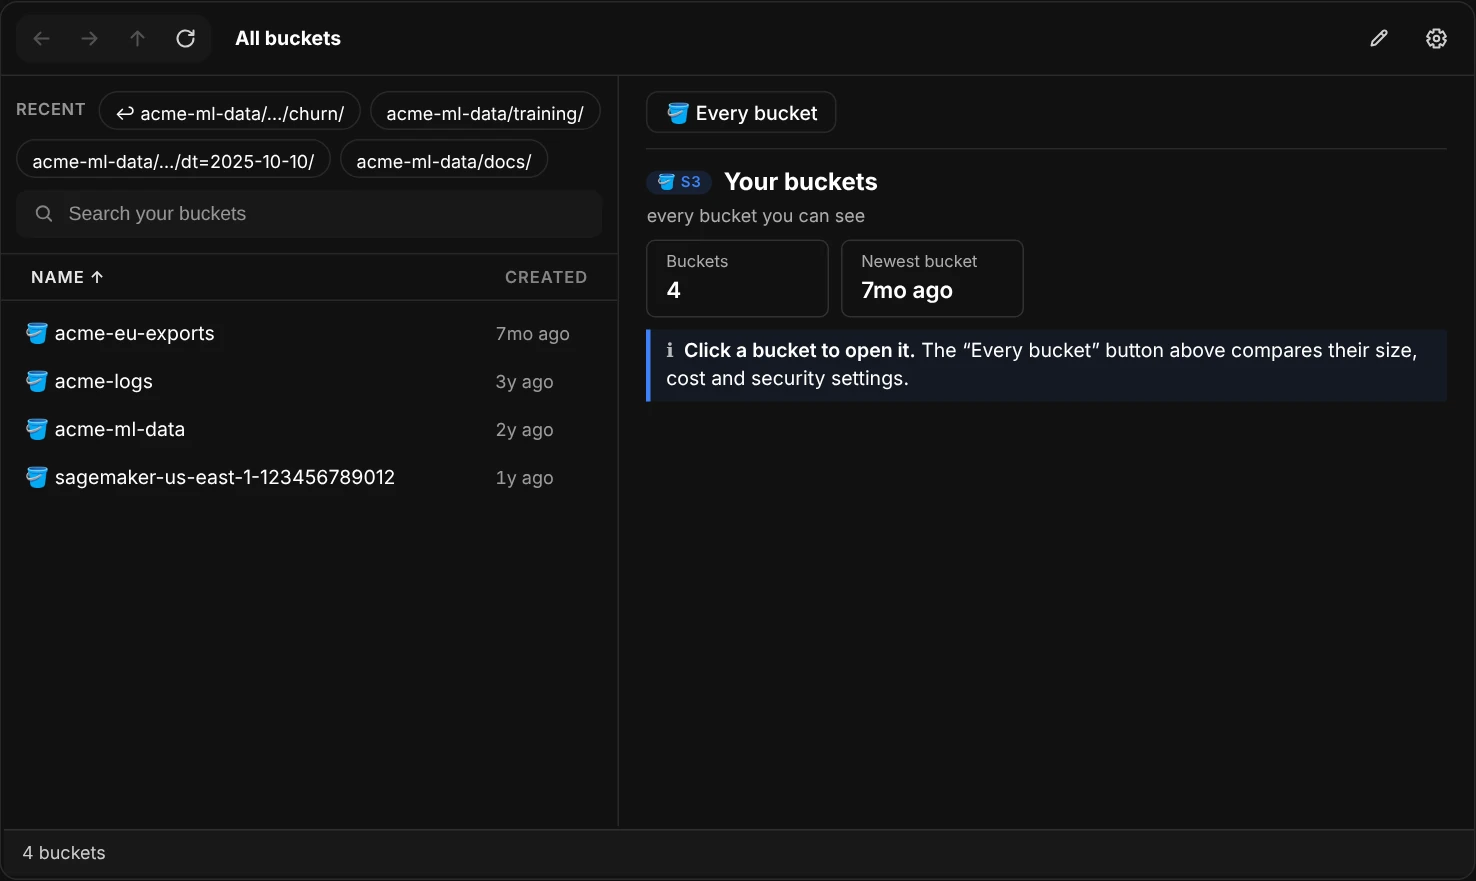
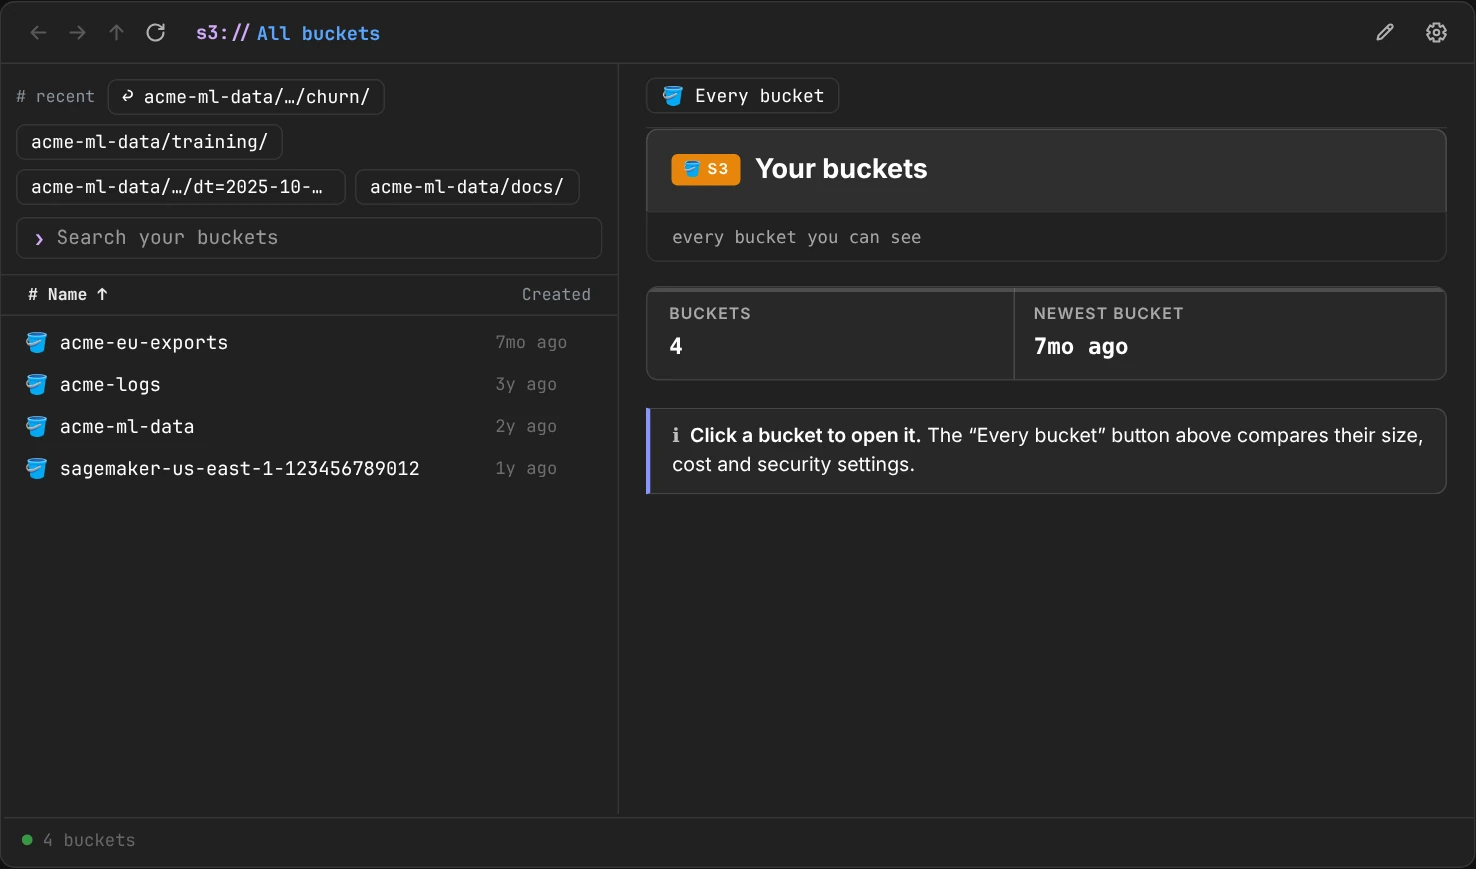
S3 explorer: the Recent row in the terminal look
Claude-Session: https://claude.ai/code/session_011KqyjUmf53E5SGuvtJR8J6

diff --git a/src/aws_analyzer/s3/explorer/frame.py b/src/aws_analyzer/s3/explorer/frame.py
@@ -165,8 +165,7 @@ body[class*=vscode-] .s3x .s3x-body{height:560px}
 .s3x button.s3x-more{border-style:dashed;opacity:.75}
 .s3x .s3x-recent{flex-wrap:wrap;gap:6px;align-items:center}
 .s3x .s3x-recent>*{margin:0}
-.s3x .s3x-recent-l{font-size:11px;font-weight:600;letter-spacing:.04em;text-transform:uppercase;opacity:.55;
- margin-right:2px}
+.s3x .s3x-recent-l{font-size:11px;color:var(--s3t-comment);margin-right:2px}
 .s3x button.s3x-place{max-width:220px;overflow:hidden;text-overflow:ellipsis;white-space:nowrap}
 .s3x button.s3x-deep{display:inline-flex;align-items:center;gap:6px;margin-left:auto}
 .s3x button.s3x-deep::before{width:13px;height:13px}

diff --git a/src/aws_analyzer/s3/explorer/recent.py b/src/aws_analyzer/s3/explorer/recent.py
@@ -65,7 +65,7 @@ class _RecentPane:
 
     def _build_recent(self) -> Any:
         w = self._widgets
-        label = w.HTML('<span class="s3x-recent-l">Recent</span>', layout=w.Layout(width="auto"))
+        label = w.HTML('<span class="s3x-recent-l"># recent</span>', layout=w.Layout(width="auto"))
         self._recent_chips, self._recent_keys = [], []
         self._recent_box = w.HBox([label], layout=w.Layout(width="100%", display="none"))
         self._recent_box.add_class("s3x-recent")

diff --git a/docs/s3_explorer.md b/docs/s3_explorer.md
@@ -121,8 +121,8 @@ The folder on the left, the file you clicked on the right. One click on the path
 The explorer remembers the folders you open, so your list of buckets starts with them: **↩** picks up where you left off.
 { .gist }
 
-![S3Explorer on the list of buckets: over the search box a Recent row of chips, ↩ acme-ml-data/…/churn/ first, then acme-ml-data/training/, acme-ml-data/…/dt=2025-10-10/ and acme-ml-data/docs/; under it the buckets](images/explorer-recent-light.webp#only-light){ width="984" height="587" loading=lazy }
-![S3Explorer on the list of buckets: over the search box a Recent row of chips, ↩ acme-ml-data/…/churn/ first, then acme-ml-data/training/, acme-ml-data/…/dt=2025-10-10/ and acme-ml-data/docs/; under it the buckets](images/explorer-recent-dark.webp#only-dark){ width="984" height="587" loading=lazy }
+![S3Explorer on the list of buckets: over the search box a # recent row of chips, ↩ acme-ml-data/…/churn/ first, then acme-ml-data/training/, acme-ml-data/…/dt=2025-10-10/ and acme-ml-data/docs/; under it the buckets](images/explorer-recent-light.webp#only-light){ width="984" height="579" loading=lazy }
+![S3Explorer on the list of buckets: over the search box a # recent row of chips, ↩ acme-ml-data/…/churn/ first, then acme-ml-data/training/, acme-ml-data/…/dt=2025-10-10/ and acme-ml-data/docs/; under it the buckets](images/explorer-recent-dark.webp#only-dark){ width="984" height="579" loading=lazy }
 /// caption
 `S3Explorer()`: the folder you were in last, then the ones you open most. Point at a chip for its whole path.
 ///
